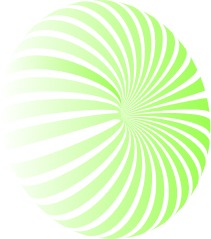
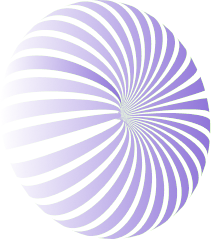
color

diff --git a/src/app/assets/main.css b/src/app/assets/main.css
@@ -4553,7 +4553,7 @@ label {
 .agenko-footer .shape.shape-blur_one span {
   width: 261px;
   height: 261px;
-  background-color: rgba(155, 254, 79, 0.5);
+  background-color: rgba(106, 71, 237, 0.5);
   -webkit-filter: blur(80px);
           filter: blur(80px);
 }
